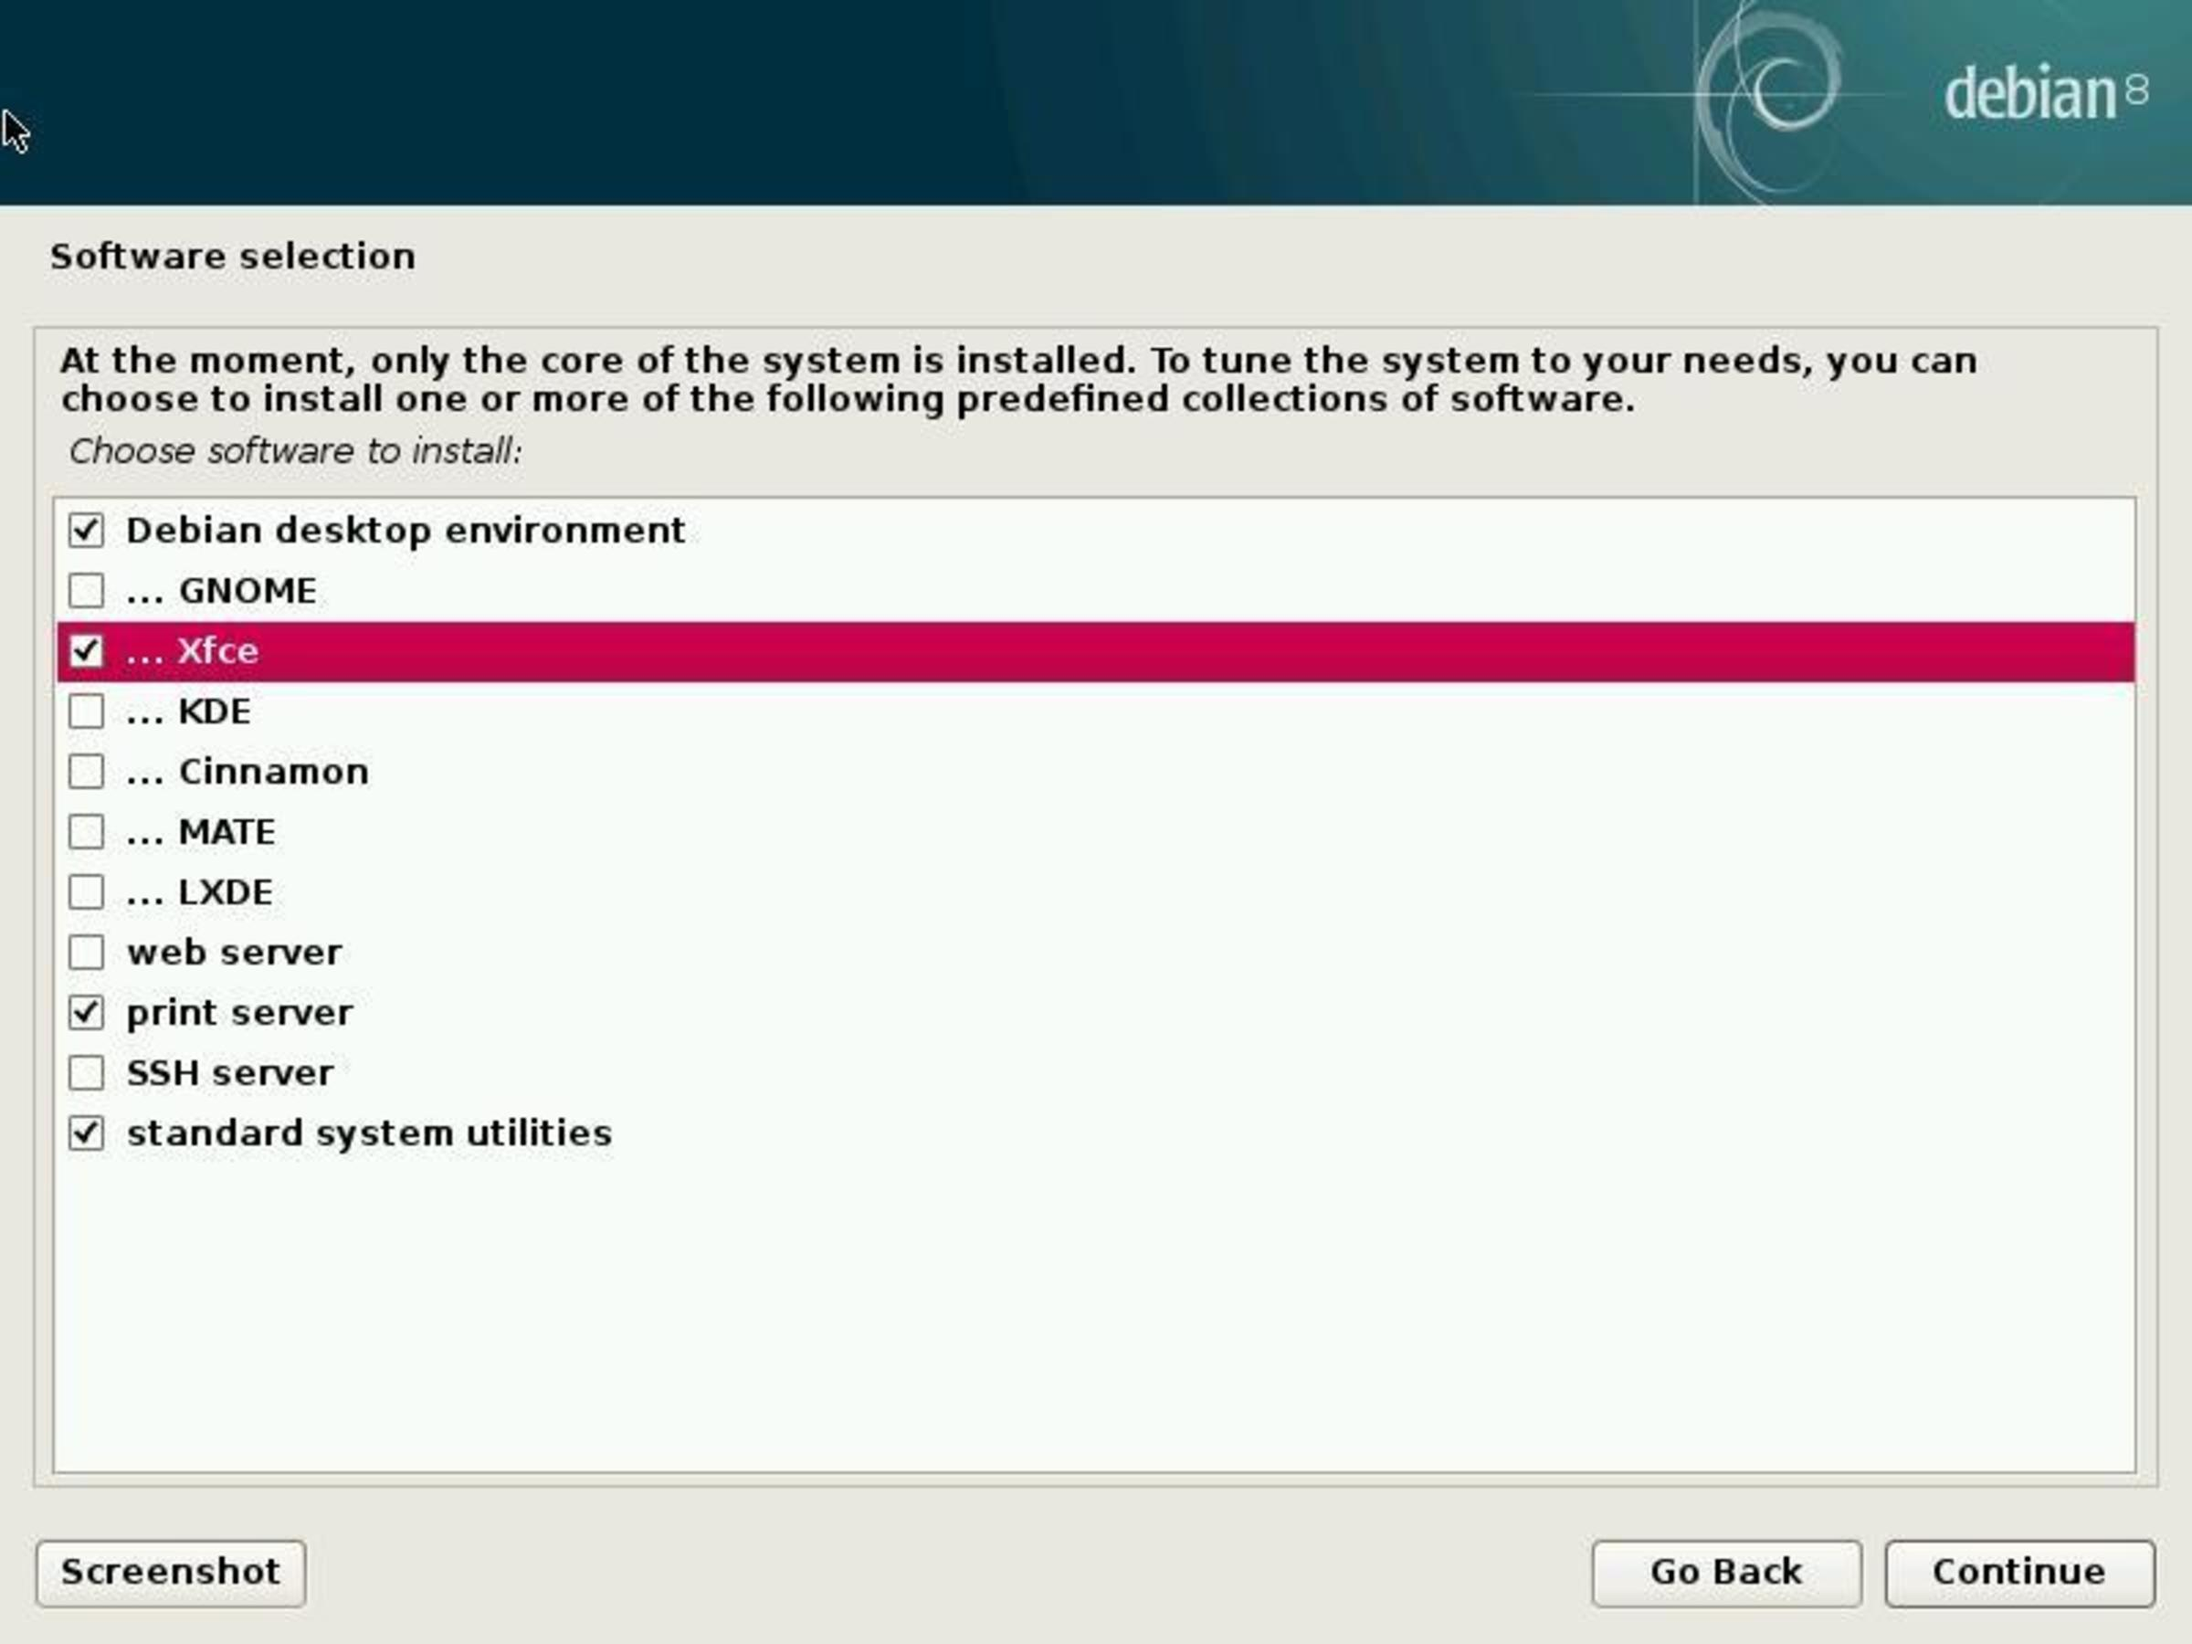
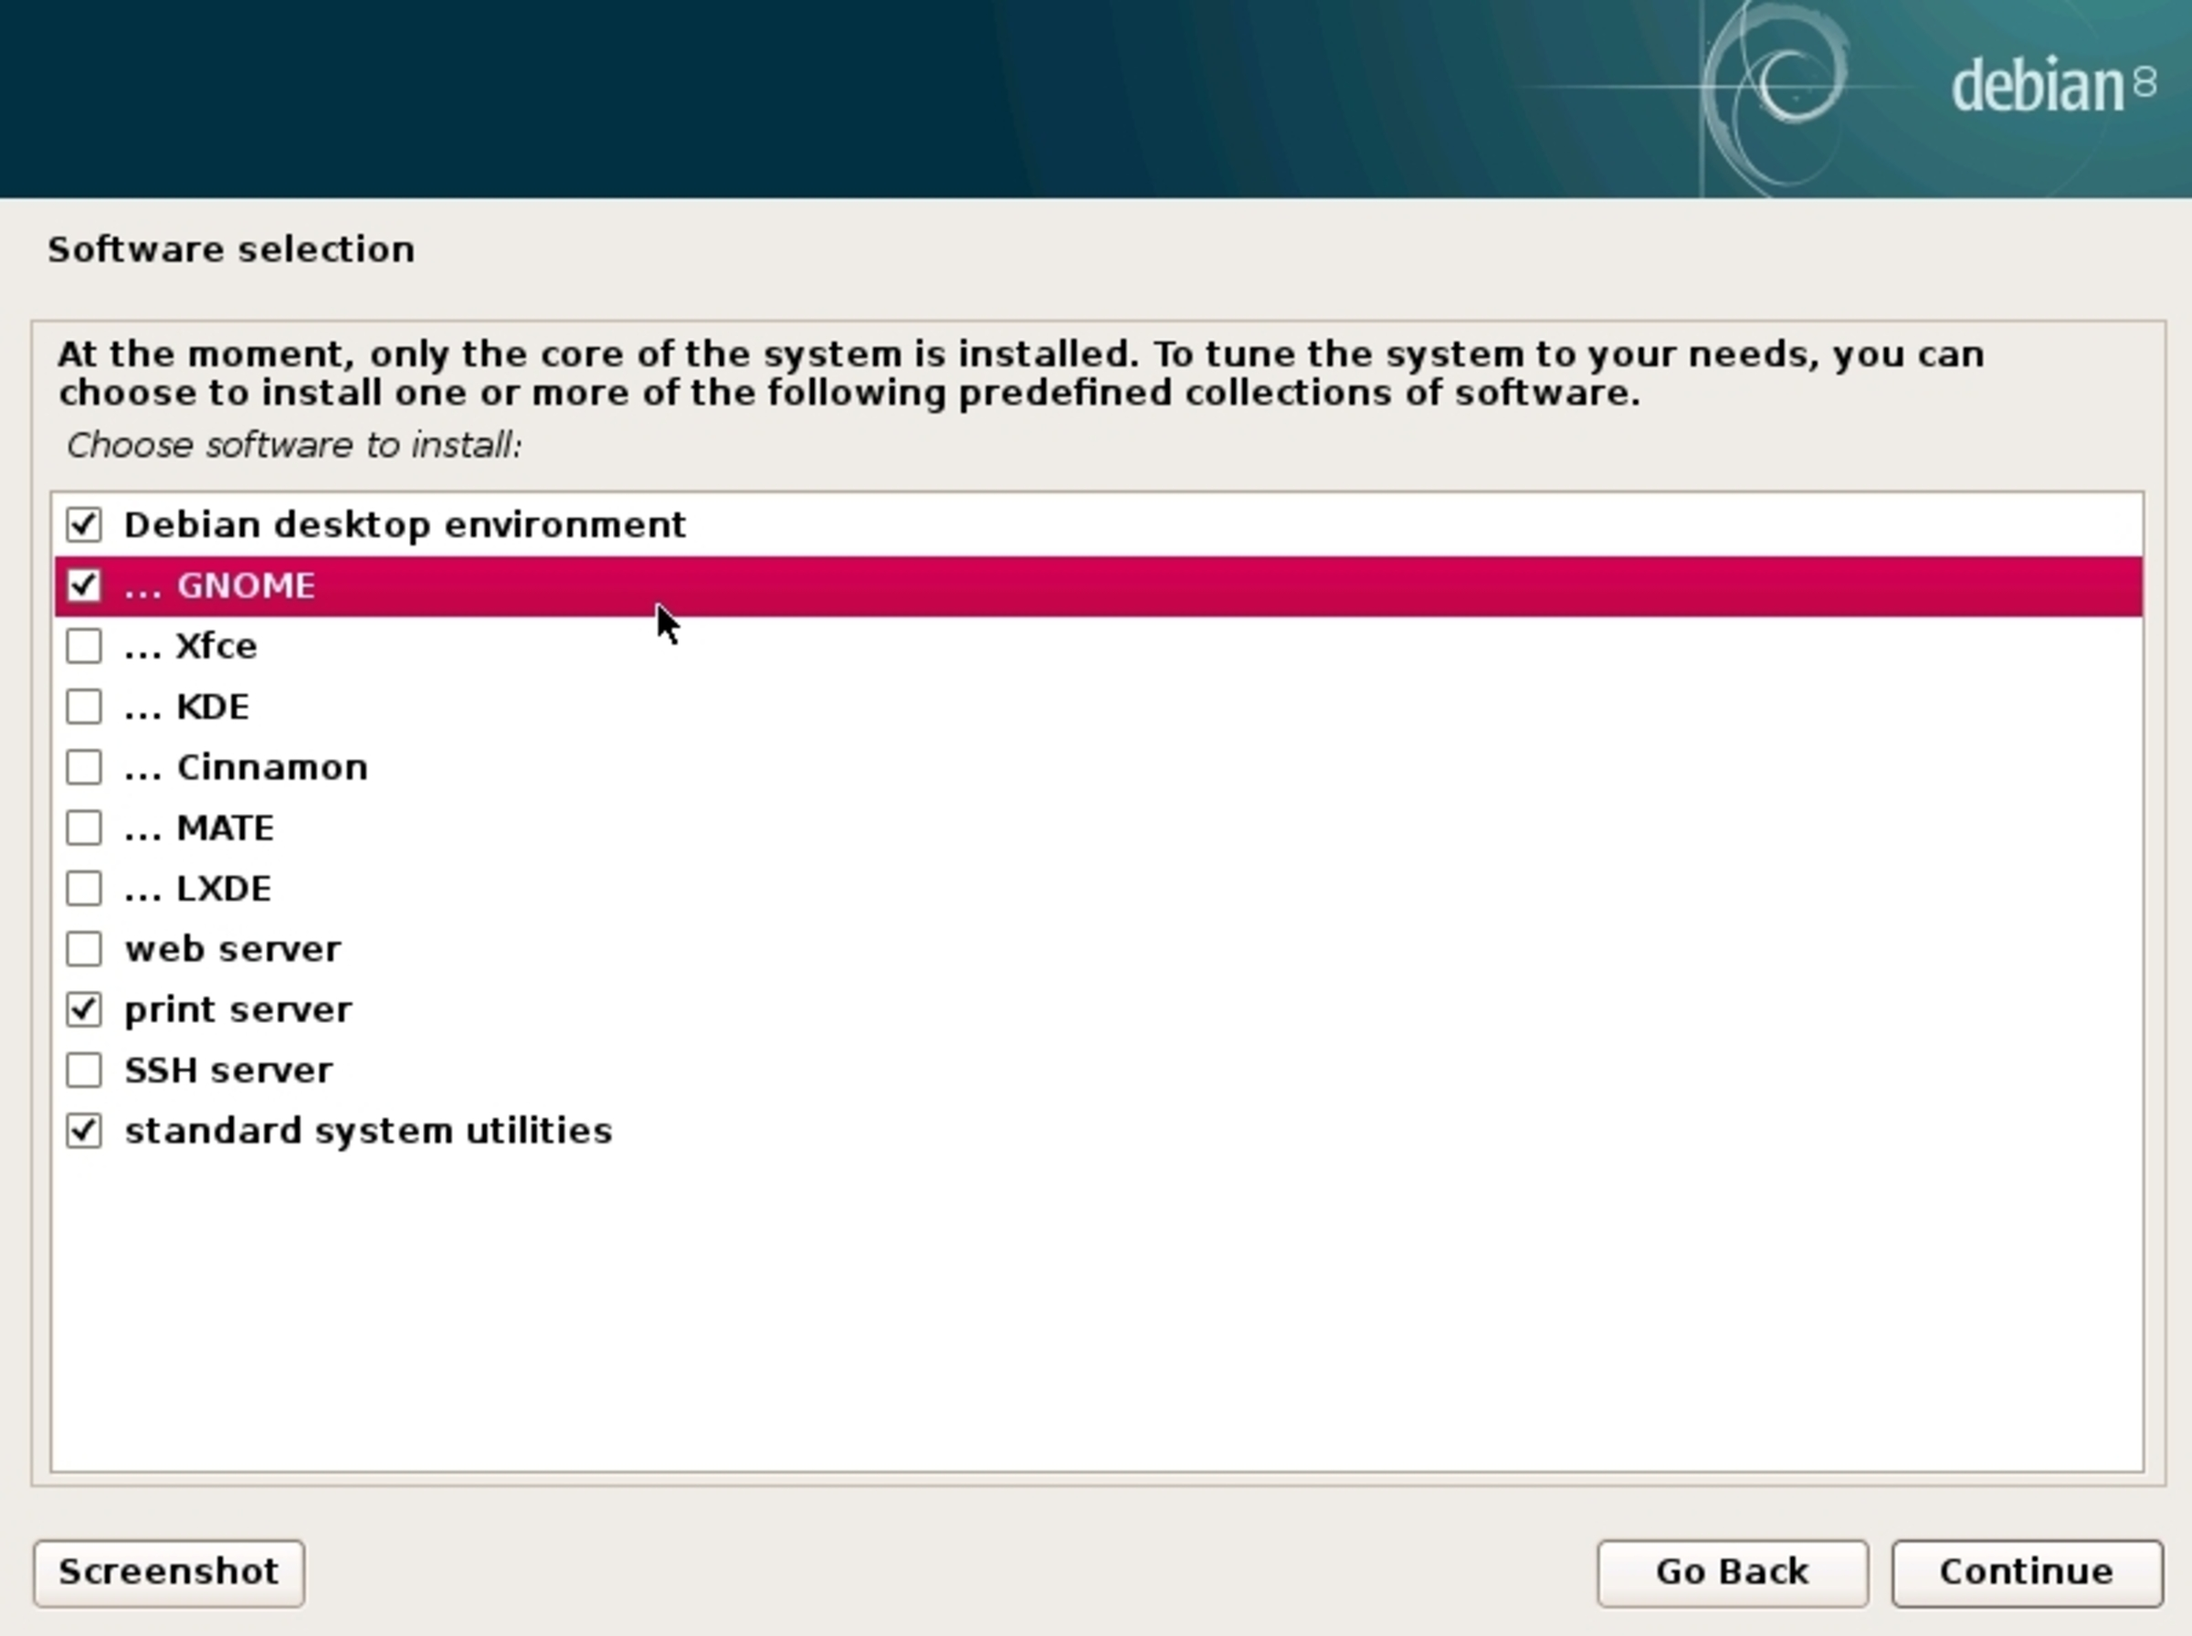
example with gnome (removed xfce)

Changed region(s): [[0.0, 0.0, 1.0, 0.9827], [0.875, 0.0307, 1.0, 0.0921], [0.0, 0.0614, 0.0312, 0.0921]]

diff --git a/tex/install/software.tex b/tex/install/software.tex
@@ -15,11 +15,11 @@ Si consiglia al lettore di cercare con il proprio motore di ricerca preferito im
 
 Il \textit{web server} non ci serve: è utile solo se vogliamo installare Debian su un server che dovrà ospitare un sito web. Non ci serve neanche il \textit{server SSH} che viene utilizzato per l'accesso remoto al sistema. Il \textit{print server} (server di stampa) è utile se vogliamo poter stampare documenti con una stampante da Debian. Infine, è consigliato installare le utility di sistema che servono a configurare e gestire al meglio il proprio ambiente.
 
-Una possibile configurazione, dove viene installato Xfce come desktop environment, è quella mostrata in Figura \vref{fig:software-selection}. Dopo aver fatto avanti, l'installer inizierà a scaricare il software che abbiamo selezionato.
+Una possibile configurazione, dove viene installato GNOME come desktop environment, è quella mostrata in Figura \vref{fig:software-selection}. Dopo aver fatto avanti, l'installer inizierà a scaricare il software che abbiamo selezionato.
 
 \begin{figure}[ht]
 	\centering
 	\includegraphics[resolution=600]{software-selection}
-	\caption{Scelta del software e di Xfce come desktop environment}
+	\caption{Scelta del software e di GNOME come desktop environment}
 	\label{fig:software-selection}
 \end{figure}
